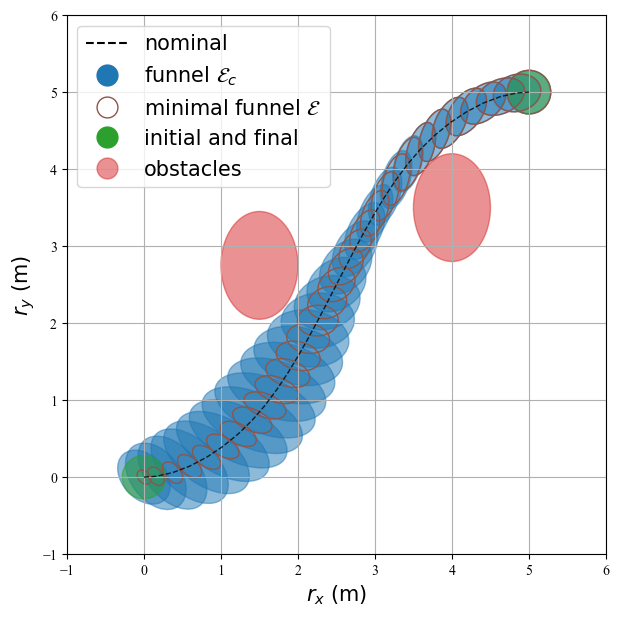
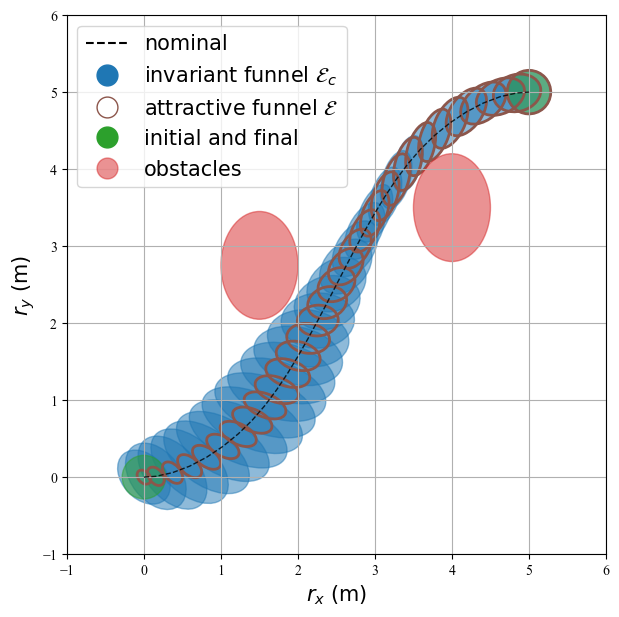
update

Changed region(s): [[0.2149, 0.0924, 0.8901, 0.8006], [0.2149, 0.0924, 0.5525, 0.1848]]

diff --git a/utils/utils_plot.py b/utils/utils_plot.py
@@ -198,13 +198,13 @@ def plot_two_funnel(x,Q,S,xi=None,xf=None,Qi=None,Qf=None,plt=plt,flag_label=Tru
             color='tab:green',alpha=0.5,fill=True)
             ax.add_patch(ell)
     for x_,radius,angle in zip(x,radius_Q,angle_Q) :
-        ell = Ellipse((x_[0],x_[1]),radius[0]*2,radius[1]*2,angle=np.rad2deg(angle),color='tab:brown',alpha=1.0,fill=False)
+        ell = Ellipse((x_[0],x_[1]),radius[0]*2,radius[1]*2,angle=np.rad2deg(angle),color='tab:brown',alpha=1.0,fill=False,linewidth=2.0)
         ax.add_patch(ell)
     if flag_label == True :
         plt.plot(1e3,1e3,'--',color='black',label="nominal")
-        plt.plot(1e3,1e3,'o',markersize=15,color='tab:blue',label="funnel $\mathcal{E}_{c}$") 
+        plt.plot(1e3,1e3,'o',markersize=15,color='tab:blue',label="invariant funnel $\mathcal{E}_{c}$") 
         # plt.plot(1e3,1e3,'o',markersize=15,fillstyle='none',linewidth=4,color='tab:brown',label="approx funnel") 
-        plt.plot(1e3,1e3,'o',markersize=15,fillstyle='none',linewidth=4,color='tab:brown',label="minimal funnel $\mathcal{E}$") 
+        plt.plot(1e3,1e3,'o',markersize=15,fillstyle='none',linewidth=4,color='tab:brown',label="attractive funnel $\mathcal{E}$") 
         # plt.plot(1e3,1e3,'o',markersize=15,color='tab:green',label="final") 
         plt.plot(1e3,1e3,'o',markersize=15,alpha=1.0,color='tab:green',label="initial and final") 
         plt.plot(1e3,1e3,'o',markersize=15,alpha=0.5,color='tab:red',label="obstacles") 
